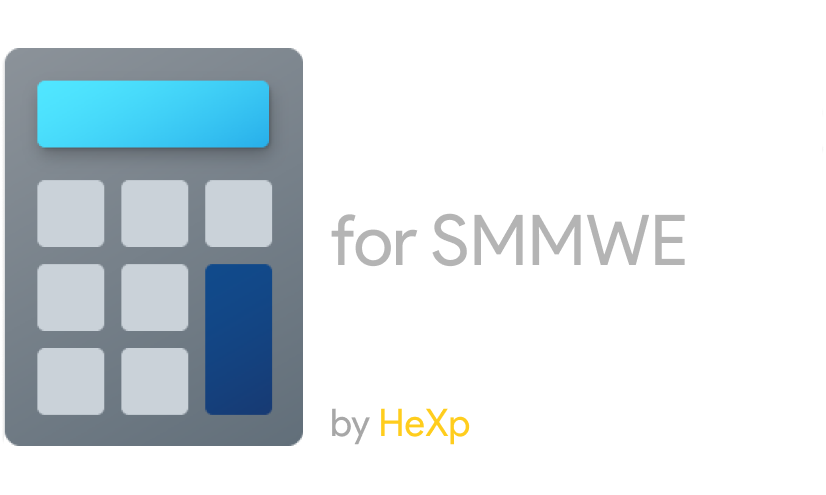
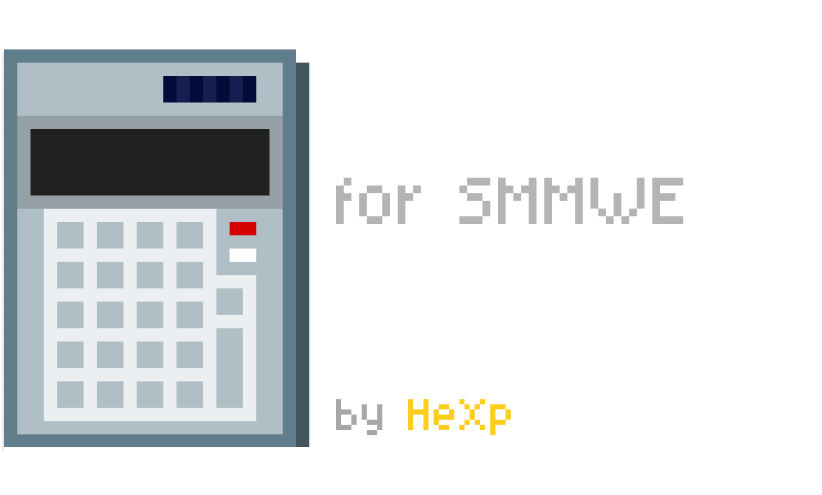
RipCalc 2.1.0

diff --git a/index.html b/index.html
@@ -11,13 +11,13 @@
     <link rel="icon" href="img/block.png" type="image/png">
     <style>
         @font-face {
-            font-family: 'GoogleFont';
-            src: url('fnt/google.ttf') format('truetype');
+            font-family: 'Pixel';
+            src: url('fnt/pixel.ttf') format('truetype');
         }
 
         body {
-            font-family: 'GoogleFont'; /* Sets the font */
-            background-color: #1a1a1a;
+            font-family: 'Pixel';
+            background-image: url('img/bgif.gif');
             color: #ffffff;
         }
 
@@ -51,77 +51,83 @@
             text-align: center;
             color: #c9c9c7;
         }
+
+        .content-container {
+            background-image: url('img/bg2.png');
+            border-radius: 20px;
+            padding: 20px;
+        }
     </style>
 </head>
 
 <body>
-  <div class="container mt-5">
-    <div class="banner-container">
-      <a href="index.html">
-        <img class="banner-img" src="img/banner.png" alt="Banner">
-      </a>
+    <div class="container mt-5">
+        <!-- Contenedor del contenido -->
+        <div class="content-container">
+            <div class="banner-container">
+                <a href="index.html">
+                    <img class="banner-img" src="img/banner.png" alt="Banner">
+                </a>
+            </div>
+
+            <form id="calculate-form">
+                <div class="form-group">
+                    <label for="anchoBloque">Ancho del bloque:</label>
+                    <input type="text" class="form-control" name="anchoBloque" id="anchoBloque" placeholder="Por ejemplo, 22" required>
+                </div>
+                <div class="form-group">
+                    <label for="anchoCaptura">Ancho de la captura:</label>
+                    <input type="text" class="form-control" name="anchoCaptura" id="anchoCaptura" placeholder="Por ejemplo, 76" required>
+                </div>
+                <button type="button" class="btn btn-primary" data-operation="128x">128x</button>
+                <button type="button" class="btn btn-warning" data-operation="64x">64x</button>
+                <button type="button" class="btn btn-danger" data-operation="48x">48x</button>
+                <button type="button" class="btn btn-primary" data-operation="32x">32x</button>
+                <button type="button" class="btn btn-warning" data-operation="24x">24x</button>
+                <button type="button" class="btn btn-danger" data-operation="16x">16x</button>
+            </form>
+            <div class="mt-4">
+                <h3> Resultado:</h3>
+                <h5 id="resultado"></h5>
+            </div>
+            <div class="footer">
+                <p>Calculadora creada por HeXp. Versión 2.1.0</p>
+            </div>
+        </div> <!-- Cierre del contenedor del contenido -->
     </div>
 
-    <form id="calculate-form">
-      <div class="form-group">
-        <label for="anchoBloque">Ancho del bloque:</label>
-        <input type="text" class="form-control" name="anchoBloque" id="anchoBloque" required>
-      </div>
-      <div class="form-group">
-        <label for="anchoCaptura">Ancho de la captura:</label>
-        <input type="text" class="form-control" name="anchoCaptura" id="anchoCaptura" required>
-      </div>
-      <button type="button" class="btn btn-primary" data-operation="128x">128x</button>
-      <button type="button" class="btn btn-warning" data-operation="64x">64x</button>
-      <button type="button" class="btn btn-danger" data-operation="48x">48x</button>
-      <button type="button" class="btn btn-primary" data-operation="32x">32x</button>
-      <button type="button" class="btn btn-warning" data-operation="24x">24x</button>
-      <button type="button" class="btn btn-danger" data-operation="16x">16x</button>
-    </form>
-    <div class="mt-4">
-      <h3> Resultado:</h3>
-      <h5 id="resultado"></h5>
-    </div>
-    <div class="footer">
-        <p>Calculadora creada por HeXp. Versión 2.0.0</p>
-    </div>
-  </div>
+    <script src="https://code.jquery.com/jquery-3.5.1.slim.min.js"></script>
+    <script src="https://stackpath.bootstrapcdn.com/bootstrap/5.3.3/js/bootstrap.min.js"></script>
+    <script>
+        document.addEventListener("DOMContentLoaded", function () {
+            const calculateForm = document.getElementById("calculate-form");
+            const resultadoElement = document.getElementById("resultado");
 
+            calculateForm.addEventListener("click", function (event) {
+                if (event.target.tagName === "BUTTON") {
+                    const anchoBloque = parseFloat(document.getElementById("anchoBloque").value);
+                    const anchoCaptura = parseFloat(document.getElementById("anchoCaptura").value);
+                    const operation = event.target.getAttribute("data-operation");
+                    let resultado;
 
+                    if (operation === "32x") {
+                        resultado = Math.round((anchoCaptura * 32) / anchoBloque);
+                    } else if (operation === "16x") {
+                        resultado = Math.round((anchoCaptura * 16) / anchoBloque);
+                    } else if (operation === "48x") {
+                        resultado = Math.round((anchoCaptura * 48) / anchoBloque);
+                    } else if (operation === "24x") {
+                        resultado = Math.round((anchoCaptura * 24) / anchoBloque);
+                    } else if (operation === "64x") {
+                        resultado = Math.round((anchoCaptura * 64) / anchoBloque);
+                    } else if (operation === "128x") {
+                        resultado = Math.round((anchoCaptura * 128) / anchoBloque);
+                    }
 
-  <script src="https://code.jquery.com/jquery-3.5.1.slim.min.js"></script>
-  <script src="https://stackpath.bootstrapcdn.com/bootstrap/5.3.3/js/bootstrap.min.js"></script>
-  <script>
-    document.addEventListener("DOMContentLoaded", function () {
-      const calculateForm = document.getElementById("calculate-form");
-      const resultadoElement = document.getElementById("resultado");
-
-      calculateForm.addEventListener("click", function (event) {
-        if (event.target.tagName === "BUTTON") {
-          const anchoBloque = parseFloat(document.getElementById("anchoBloque").value);
-          const anchoCaptura = parseFloat(document.getElementById("anchoCaptura").value);
-          const operation = event.target.getAttribute("data-operation");
-          let resultado;
-
-          if (operation === "32x") {
-            resultado = Math.round((anchoCaptura * 32) / anchoBloque);
-          } else if (operation === "16x") {
-            resultado = Math.round((anchoCaptura * 16) / anchoBloque);
-          } else if (operation === "48x") {
-            resultado = Math.round((anchoCaptura * 48) / anchoBloque);
-          } else if (operation === "24x") {
-            resultado = Math.round((anchoCaptura * 24) / anchoBloque);
-          } else if (operation === "64x") {
-            resultado = Math.round((anchoCaptura * 64) / anchoBloque);
-          } else if (operation === "128x") {
-            resultado = Math.round((anchoCaptura * 128) / anchoBloque);
-          }
-
-
-          resultadoElement.textContent = resultado;
-        }
-      });
-    });
-  </script>
+                    resultadoElement.textContent = resultado;
+                }
+            });
+        });
+    </script>
 </body>
 </html>
